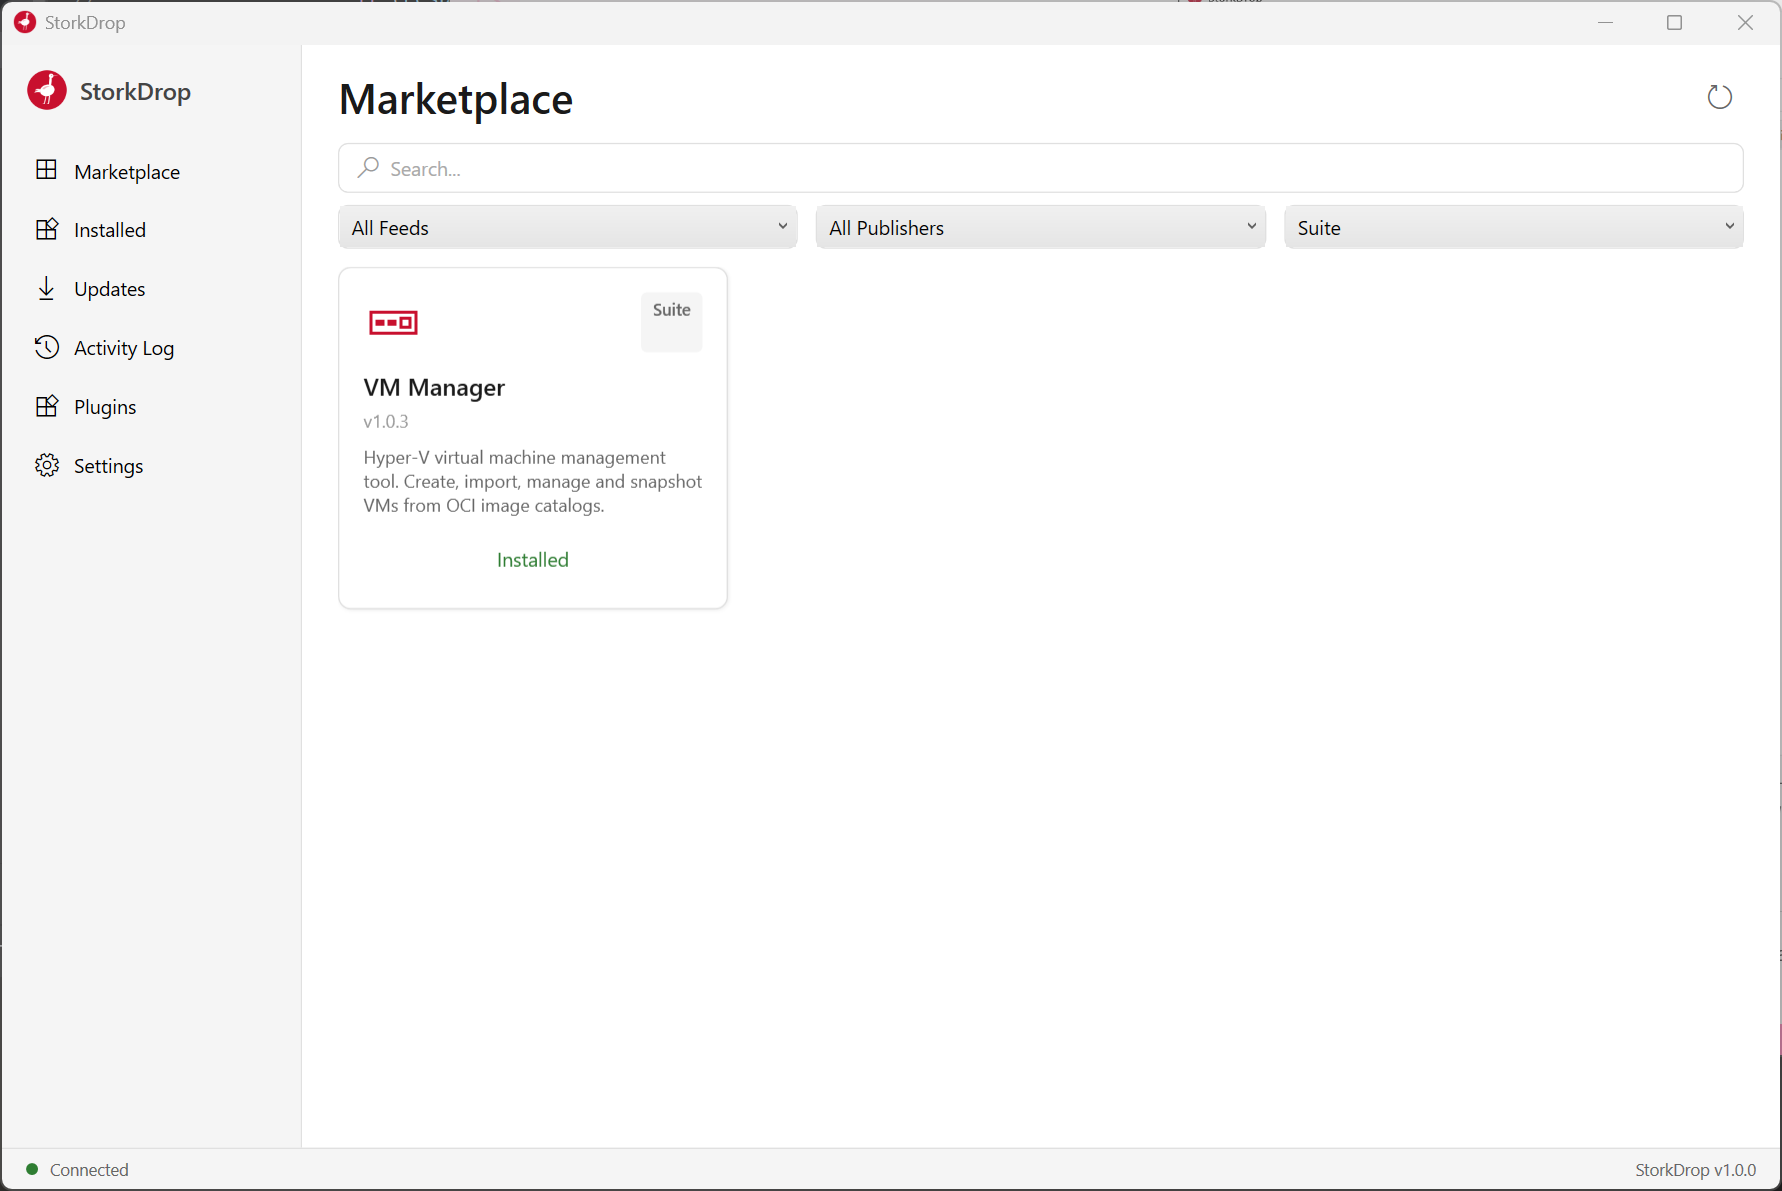
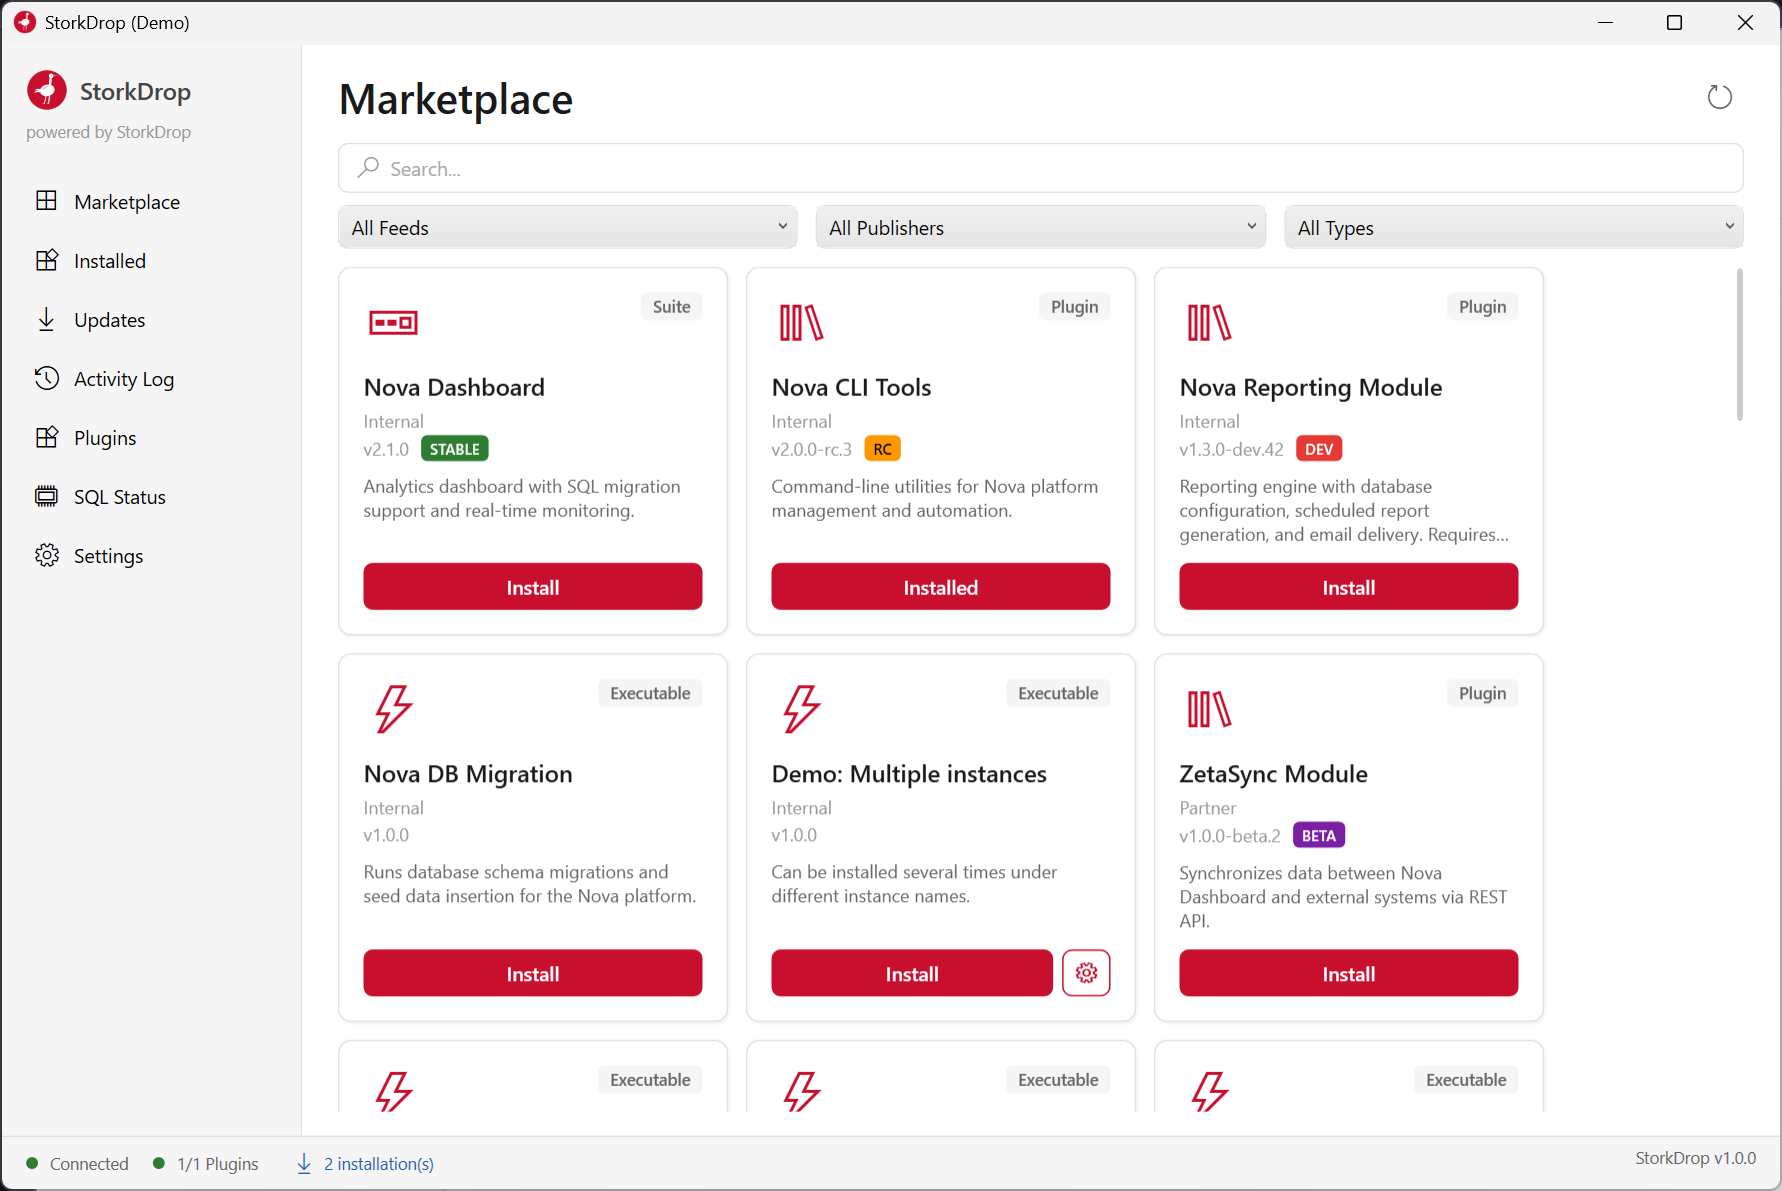
updated marketplace preview picture

diff --git a/dotnet/StorkDrop.Tests/Registry/FeedRegistryConfigWatcherTests.cs b/dotnet/StorkDrop.Tests/Registry/FeedRegistryConfigWatcherTests.cs
@@ -55,24 +55,6 @@ public sealed class FeedRegistryConfigWatcherTests
     }
 
     [Fact]
-    public async Task CoalescesBurstsOfWritesIntoOneReload()
-    {
-        using TestDirectory dir = new TestDirectory();
-        IFeedRegistry registry = Substitute.For<IFeedRegistry>();
-        using FeedRegistryConfigWatcher watcher = Create(dir, registry);
-
-        for (int i = 0; i < 5; i++)
-        {
-            await File.WriteAllTextAsync(dir.File("config.json"), $"{{\"n\":{i}}}");
-            await Task.Delay(10);
-        }
-        await WaitUntilAsync(() => registry.ReceivedCalls().Any());
-        await Task.Delay(400);
-
-        registry.ReceivedCalls().Should().ContainSingle();
-    }
-
-    [Fact]
     public async Task IgnoresOtherFilesInTheConfigDirectory()
     {
         using TestDirectory dir = new TestDirectory();
